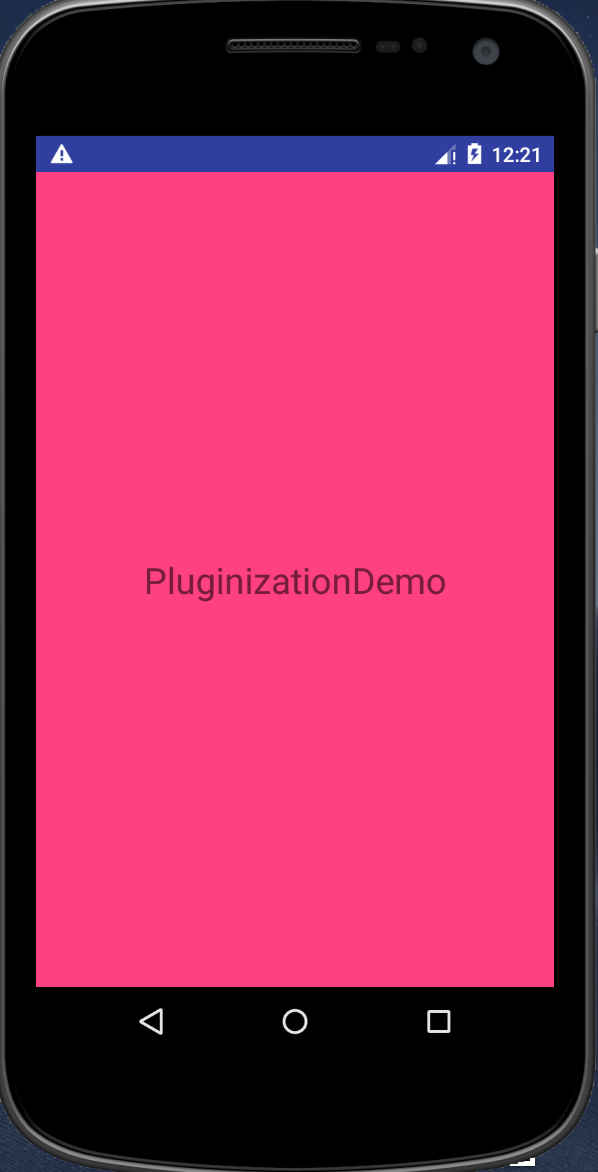
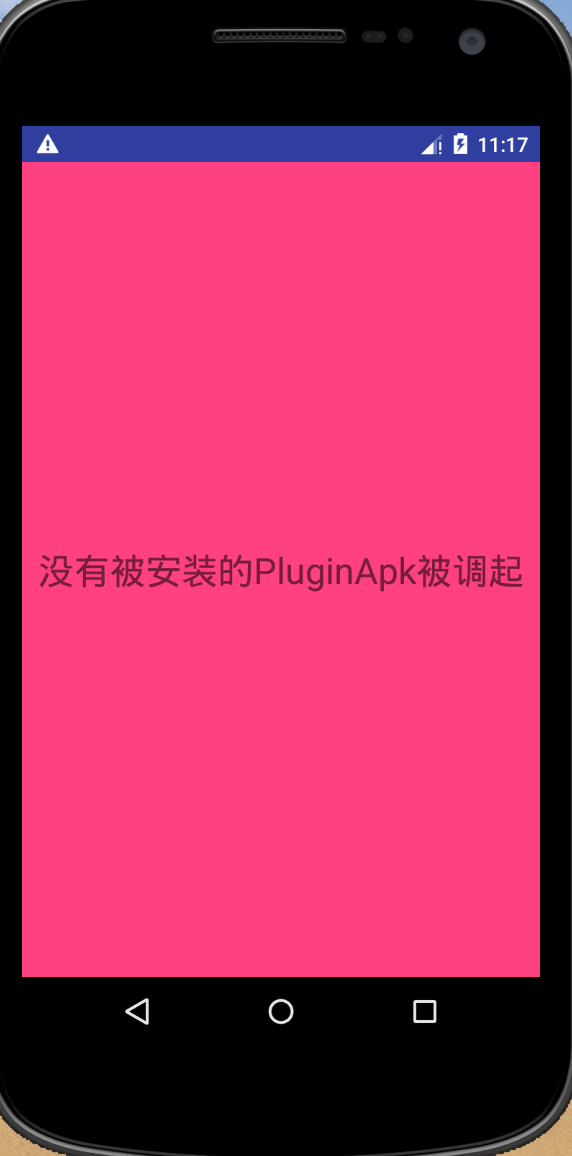
pluginApp不能通过this.getXXX访问方法,要通过mActivity.getXXX获取

Changed region(s): [[0.0, 0.0, 1.0, 1.0], [0.3566, 0.0, 0.5944, 0.0623]]

diff --git a/pluginapp/src/main/java/com/xzb/pluginapp/PluginTargetActivity.java b/pluginapp/src/main/java/com/xzb/pluginapp/PluginTargetActivity.java
@@ -2,6 +2,7 @@ package com.xzb.pluginapp;
 
 import android.support.v7.app.AppCompatActivity;
 import android.os.Bundle;
+import android.widget.TextView;
 
 import com.xzb.pluginlib.PluginActivity;
 
@@ -14,10 +15,18 @@ import com.xzb.pluginlib.PluginActivity;
  */
 public class PluginTargetActivity extends PluginActivity {
 
+    private TextView tv_plugin_main_name_text;
+
     @Override
     public void onCreate(Bundle savedInstanceState) {
         super.onCreate(savedInstanceState);
         setContentView(R.layout.activity_plugin_target);
+
+//        tv_plugin_main_name_text = findViewById(R.id.tv_plugin_main_name_text);
+        //注意pluginApp里面不能直接访问资源，findViewById,getResources()这些都不能直接获取对象，
+        //要通过mActivity.getXXX来获取
+        tv_plugin_main_name_text = mActivity.findViewById(R.id.tv_plugin_main_name_text);
+        tv_plugin_main_name_text.setText(mActivity.getResources().getText(R.string.plugin_main_name_text));
     }
 
 

diff --git a/pluginlib/src/main/java/com/xzb/pluginlib/PluginActivity.java b/pluginlib/src/main/java/com/xzb/pluginlib/PluginActivity.java
@@ -14,7 +14,7 @@ public class PluginActivity extends Activity implements ILifeCycle{
 
     private int mFrom;
 
-    private Activity mActivity;
+    protected Activity mActivity;
 
     @Override
     public void attach(Activity activity) {

diff --git a/README.md b/README.md
@@ -9,7 +9,9 @@
 
 效果预览图：
 
-![app主界面运行图](pictures/AppMainActivity.jpg)
+![app主界面运行图](pictures/AppMainActivity.png)
+
+![模拟下载pluginApp](pictures/downloadPluginApp.png)
 
 ![跳转到插件apk后的效果图](pictures/pluginTargetActivity.png)
 
